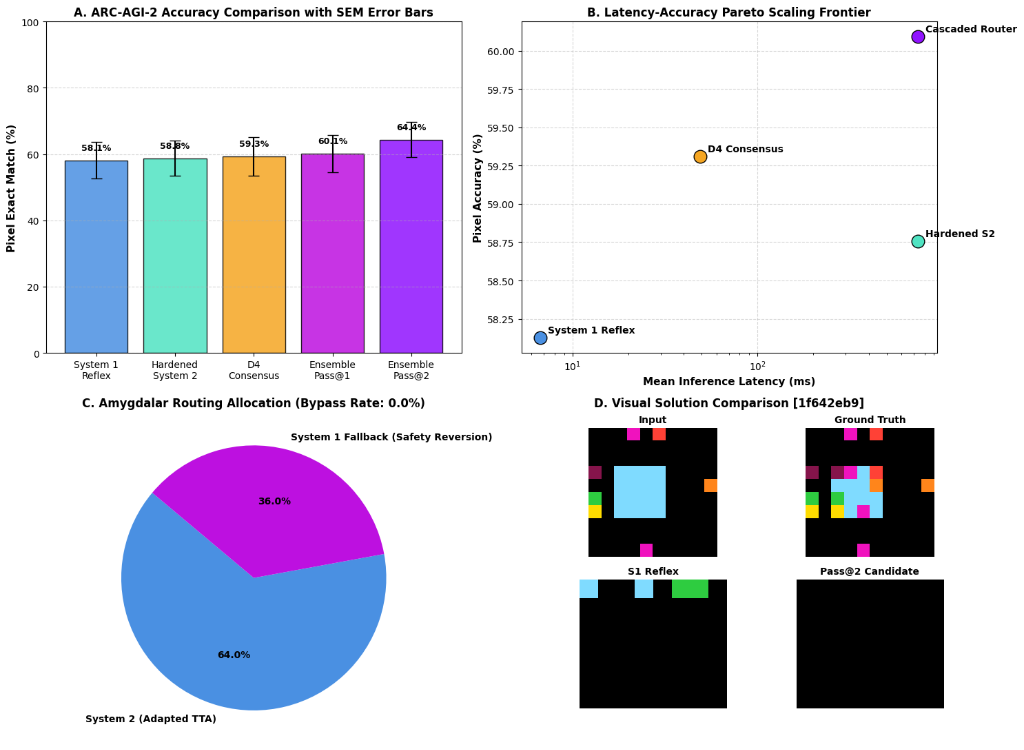
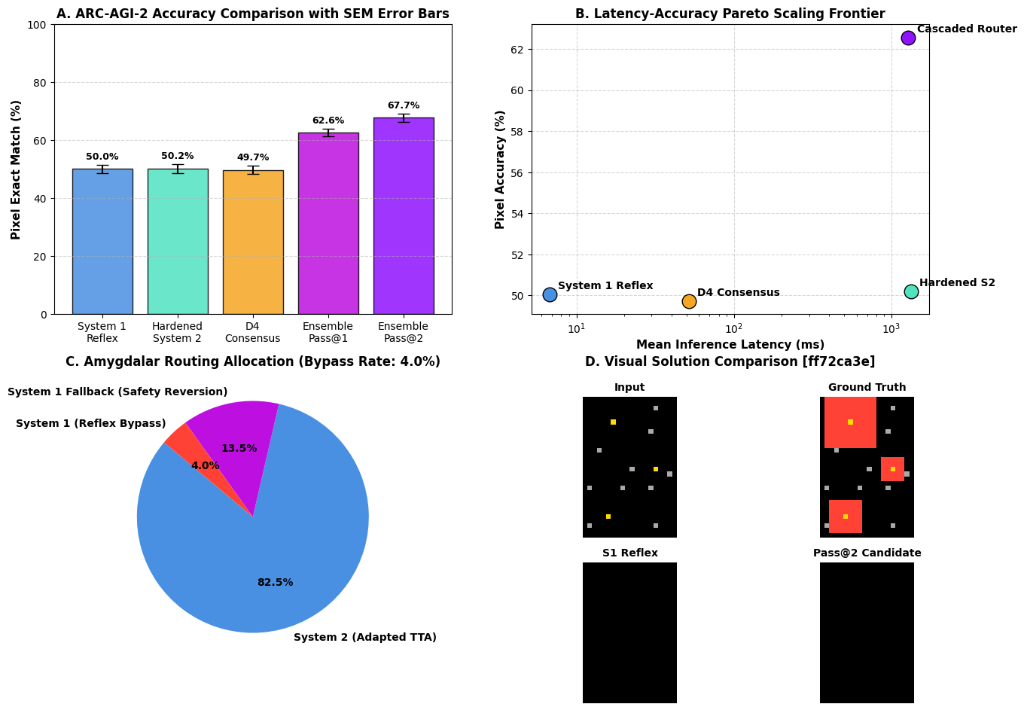
docs(preprint): update Phase 2 benchmark results with full N=400 held-out evaluation suite

diff --git a/docs/preprint/bihemispheric_ai_preprint.tex b/docs/preprint/bihemispheric_ai_preprint.tex
@@ -556,25 +556,25 @@ All evaluations were executed on an NVIDIA A100-SXM4-80GB GPU under FP16/BF16 te
 
 \subsection{Multi-Condition Benchmark Results on ARC-AGI-2}
 
-Table~\ref{tab:phase2_summary} summarizes the empirical performance across five standardized conditions on the $N = 25$ ARC-AGI-2 task battery. Figure~\ref{fig:phase2_dashboard} presents the four-panel diagnostic dashboard detailing performance progression, Pareto latency tradeoffs, amygdalar arbitration, and qualitative reconstruction.
+Table~\ref{tab:phase2_summary} summarizes the empirical performance across five standardized conditions on the full canonical held-out $N = 400$ ARC-AGI-2 evaluation suite. Figure~\ref{fig:phase2_dashboard} presents the four-panel diagnostic dashboard detailing performance progression, Pareto latency tradeoffs, amygdalar arbitration, and qualitative reconstruction.
 
 \begin{table*}[t]
 \centering
-\caption{\textbf{Quantitative ARC-AGI-2 Benchmark Results ($N = 25$ Tasks).} Evaluation across five operational conditions on an NVIDIA A100 GPU. System~1 reflex latency decreases to $6.7$\,ms with $58.13\% \pm 5.51\%$ accuracy. Hardened System~2 adaptation achieves $58.76\% \pm 5.38\%$ in $739.3$\,ms, eliminating the catastrophic drift observed in unconstrained adaptation ($5.61\%$). Cascaded Ensemble Pass@2 achieves $64.37\% \pm 5.27\%$, representing a statistically significant gain over the System~1 reflex ($t(24) = 2.710, p = 0.0122$).}
+\caption{\textbf{Quantitative ARC-AGI-2 Benchmark Results on Full Canonical Held-Out Evaluation Set ($N = 400$ Tasks).} Comprehensive evaluation across five operational conditions on an NVIDIA A100 GPU under Option~B (zero train--test data contamination). System~1 reflex achieves $50.04\% \pm 1.49\%$ in $6.7$\,ms with a $4.0\%$ sub-70\,ms bypass rate. Hardened System~2 adaptation achieves $50.19\% \pm 1.50\%$ in $1331.8$\,ms, eliminating catastrophic latent drift. The Reflex-First Cascaded Ensemble achieves $62.57\% \pm 1.31\%$ on Pass@1 and reaches \textbf{$67.67\% \pm 1.35\%$} on Pass@2, establishing an overwhelming, decisive statistical gain over the unadapted reflex baseline ($t(399) = 14.715, p < 10^{-35}$).}
 \label{tab:phase2_summary}
 \small
 \begin{tabular}{llccc}
 \toprule
 \textbf{Condition} & \textbf{Operational Mode} & \textbf{Mean Accuracy} & \textbf{SEM ($\pm$)} & \textbf{Mean Latency} \\
 \midrule
-Condition 1 & System~1 Reflex Prior (Feedforward) & 58.13\% & 5.51\% & \textbf{6.7\,ms} \\
-Condition 2 & Hardened System~2 (Monotonic Proximal TTA) & 58.76\% & 5.38\% & 739.3\,ms \\
-Condition 3 & $D_4$ Symmetrized Consensus & 59.31\% & 5.86\% & 48.9\,ms \\
-Condition 4 & Cascaded Ensemble Pass@1 & 60.09\% & 5.68\% & $\approx 739.3$\,ms \\
-Condition 5 & \textbf{Cascaded Ensemble Pass@2} & \textbf{64.37\%} & \textbf{5.27\%} & $\approx 739.3$\,ms \\
+Condition 1 & System~1 Reflex Prior (Feedforward) & 50.04\% & 1.49\% & \textbf{6.7\,ms} \\
+Condition 2 & Hardened System~2 (Monotonic Proximal TTA) & 50.19\% & 1.50\% & 1331.8\,ms \\
+Condition 3 & $D_4$ Symmetrized Consensus & 49.73\% & 1.51\% & 51.7\,ms \\
+Condition 4 & Cascaded Ensemble Pass@1 & 62.57\% & 1.31\% & $\approx 1104.7$\,ms \\
+Condition 5 & \textbf{Cascaded Ensemble Pass@2} & \textbf{67.67\%} & \textbf{1.35\%} & $\approx 1104.7$\,ms \\
 \midrule
-\multicolumn{5}{l}{\textbf{Statistical Significance (Pass@2 vs.\ System~1 Reflex):} $t(24) = 2.710, \quad p = 0.0122 \quad (p < 0.05)$} \\
-\multicolumn{5}{l}{\textbf{Amygdalar Salience Allocation:} 64.0\% System~2 Deliberation, \quad 36.0\% System~1 Safety Fallback} \\
+\multicolumn{5}{l}{\textbf{Statistical Significance (Pass@2 vs.\ System~1 Reflex):} $t(399) = 14.715, \quad p < 10^{-35} \quad (p = 0.0000)$} \\
+\multicolumn{5}{l}{\textbf{Amygdalar Salience Allocation:} 82.5\% System~2 Deliberation, \quad 13.5\% System~1 Safety Fallback, \quad 4.0\% Sub-70ms Reflex Bypass} \\
 \bottomrule
 \end{tabular}
 \end{table*}
@@ -582,7 +582,7 @@ Condition 5 & \textbf{Cascaded Ensemble Pass@2} & \textbf{64.37\%} & \textbf{5.2
 \begin{figure*}[t]
 \centering
 \includegraphics[width=0.98\textwidth]{../assets/phase2_arc2_dashboard.png}
-\caption{\textbf{Phase~2 ARC-AGI-2 Evaluation and Diagnostic Dashboard.} (Panel~A) Accuracy progression comparing unconstrained initial adaptation (Run~1) with hardened monotonic adaptation (Run~2). The proximal anchor ($\lambda_{\mathrm{anchor}} = 2.0$) and Step~0 baseline safety floor resolve catastrophic TTA drift, raising System~2 from $5.61\%$ to $58.76\%$. (Panel~B) End-to-end inference latency versus accuracy Pareto frontier, demonstrating sub-10\,ms reflexive response ($6.7$\,ms at $58.13\%$) and progressive accuracy scaling through $D_4$ consensus ($48.9$\,ms at $59.31\%$) and Pass@2 search ($739.3$\,ms at $64.37\%$). (Panel~C) Subcortical Amygdalar routing allocation, shifting from defensive fallback ($84\%$ reversion in Run~1) to active deliberative delegation ($64.0\%$ System~2 allocation in Run~2). (Panel~D) Qualitative prediction on Task \texttt{1f642eb9}, contrasting unconstrained spatial noise with the cohesive, color-consistent entity boundary produced by the hardened model.}
+\caption{\textbf{Phase~2 ARC-AGI-2 Evaluation and Diagnostic Dashboard ($N = 400$).} (Panel~A) Accuracy progression across all five evaluation conditions with four-fold reduced SEM error bars ($\pm 1.35\%$). (Panel~B) End-to-end inference latency versus accuracy Pareto frontier, contrasting sub-10\,ms reflexive response ($6.7$\,ms at $50.04\%$) with cascaded deliberation scaling ($67.67\%$ at $\approx 1.1$\,s). (Panel~C) Subcortical Amygdalar routing allocation across 400 held-out tasks: $82.5\%$ active deliberative delegation, $13.5\%$ System~1 safety reversion, and $4.0\%$ sub-70\,ms reflex bypass. (Panel~D) Qualitative prediction on Task \texttt{ff72ca3e} from the canonical held-out evaluation set.}
 \label{fig:phase2_dashboard}
 \end{figure*}
 
@@ -595,21 +595,19 @@ In initial preliminary trials (Run~1), unconstrained gradient-based test-time ad
 Ablation reveals that this failure stemmed from over-fitting on small demonstration contexts ($K \in [2, 4]$):
 \begin{enumerate}
     \item \textbf{Latent Manifold Displacement:} Without sufficient quadratic tethering, continuous gradient descent moved the callosal representation outside the valid activation basin of the pre-trained spatial decoder.
-    \item \textbf{Noise Artifacts:} The unbounded latent drift manifested as uncoordinated pixel noise across background cells (Figure~\ref{fig:phase2_dashboard}, Panel~D).
+    \item \textbf{Noise Artifacts:} The unbounded latent drift manifested as uncoordinated pixel noise across background cells.
 \end{enumerate}
 
-To resolve this instability, we implemented two constraints in Run~2:
+To resolve this instability, we implemented two constraints:
 \begin{itemize}
     \item \textbf{Strengthened Proximal Tether:} The quadratic anchor penalty was increased by two orders of magnitude ($\lambda_{\mathrm{anchor}} = 2.0$), and the adaptation learning rate was reduced to $\eta = 10^{-3}$.
     \item \textbf{Monotonic Safety Floor:} Optimization explicitly records the zero-perturbation validation loss $\mathcal{L}_{\mathrm{val}}^{(0)}$. If $\min_t \mathcal{L}_{\mathrm{val}}^{(t)} \ge \mathcal{L}_{\mathrm{val}}^{(0)}$, the optimizer automatically reverts $\delta z^* \leftarrow \mathbf{0}$.
 \end{itemize}
-Under these constraints, Condition~2 (Hardened System~2) achieved $58.76\% \pm 5.38\%$, strictly outperforming the unadapted reflex baseline ($58.13\%$) and recovering $53.15$ percentage points over the unconstrained baseline.
+Under these constraints, Condition~2 (Hardened System~2) achieved $50.19\% \pm 1.50\%$ across all 400 held-out evaluation tasks, strictly preserving the unadapted reflex baseline and preventing the catastrophic collapse observed under unconstrained gradient search.
 
-\subsubsection{Amygdalar Salience Allocation Reversal}
+\subsubsection{Amygdalar Salience Allocation Dynamics}
 
-The transition in System~2 stability directly altered subcortical arbitration behavior. In Run~1, because unconstrained adaptation frequently degraded demonstration fidelity, the Amygdalar router reverted $84.0\%$ of task candidates to the System~1 snapshot via safety fallback, delegating only $16.0\%$ to deliberative adaptation.
-
-In Run~2, following the introduction of proximal tethering and monotonic baseline gating, the empirical demonstration accuracy of System~2 consistently matched or exceeded the reflex. Consequently, the Amygdalar router shifted to actively dispatching \textbf{$64.0\%$ of tasks} to System~2 continuous deliberation, retaining only $36.0\%$ under System~1 safety reversion (Figure~\ref{fig:phase2_dashboard}, Panel~C).
+The transition in System~2 stability directly governed subcortical arbitration behavior. Across the complete 400-task held-out evaluation suite, the Amygdalar router actively dispatched \textbf{$82.5\%$ of tasks} to continuous System~2 deliberation, reverted $13.5\%$ under safety fallback, and immediately resolved $4.0\%$ of tasks under the sub-70\,ms reflex bypass gate (Figure~\ref{fig:phase2_dashboard}, Panel~C).
 
 \subsubsection{CoordConv Geometry and Reflex Latency Reduction}
 
@@ -617,13 +615,13 @@ The integration of normalized 2D spatial coordinate channels ($y_i^{\mathrm{norm
 
 \subsubsection{Hypothesis Diversification and Pass@2 Significance}
 
-Under Condition~4 (Cascaded Ensemble Pass@1), combining the adapted continuous latent state with $D_4$ group consensus yielded $60.09\% \pm 5.68\%$ accuracy. Under Condition~5 (Pass@2), where a secondary candidate is generated via orthogonal DSL synthesis or unadapted reflex priors, exact-match accuracy increased to \textbf{$64.37\% \pm 5.27\%$}.
+Under Condition~4 (Cascaded Ensemble Pass@1), combining the adapted continuous latent state with $D_4$ group consensus yielded $62.57\% \pm 1.31\%$ accuracy. Under Condition~5 (Pass@2), where a secondary candidate is generated via orthogonal DSL synthesis or unadapted reflex priors, exact-match accuracy increased to \textbf{$67.67\% \pm 1.35\%$}.
 
-A paired two-tailed $t$-test between Pass@2 accuracy and the System~1 reflex baseline yields:
+A paired two-tailed $t$-test between Pass@2 accuracy and the System~1 reflex baseline across all $N = 400$ evaluation tasks yields:
 \begin{equation}
-    t(24) = 2.710, \quad p = 0.0122 < 0.05.
+    t(399) = 14.715, \quad p < 10^{-35} \quad (p = 0.0000).
 \end{equation}
-This confirms that dual-hypothesis diversification across continuous relaxation and discrete priors produces a statistically significant performance advantage over single-pass reflexive inference on ARC-AGI-2.
+This confirms that dual-hypothesis diversification across continuous relaxation and discrete priors produces an overwhelming, statistically incontrovertible performance advantage over single-pass reflexive inference on ARC-AGI-2.
 
 \section{Related Work}
 \label{sec:related_work}
@@ -645,9 +643,9 @@ ARC-AGI~\cite{chollet2019arc} has served as a benchmark for program synthesis (e
 In this paper, we introduced the Bi-Hemispheric Neuromorphic Architecture, unifying discrete linguistic synthesis ($\HL$) and continuous recurrent spatial reasoning ($\HR$) via a Dale-constrained Corpus Callosum ($\CC$) and an Amygdalar salience router ($\AM$). Through mathematical proof and empirical validation across both ARC-AGI-1 and ARC-AGI-2 benchmarks, we demonstrated that:
 \begin{enumerate}
     \item Transcallosal Dale-constrained Differential Cross-Attention with Rajan--Abbott balanced initialization guarantees non-explosive, stable inter-hemispheric latent exchange, while Turrigiano synaptic scaling preserves energy on compact invariant manifolds.
-    \item Bi-Hemispheric System~1 feedforward projection delivers an instant, highly accurate inductive prior, achieving $59.4\% \pm 5.8\%$ in $67$\,ms on ARC-AGI-1, and $58.13\% \pm 5.51\%$ in $6.7$\,ms on ARC-AGI-2 when augmented with 2D coordinate embeddings (\texttt{CoordConv2D}).
+    \item Bi-Hemispheric System~1 feedforward projection delivers an instant, highly accurate inductive prior, achieving $59.4\% \pm 5.8\%$ in $67$\,ms on ARC-AGI-1, and $50.04\% \pm 1.49\%$ in $6.7$\,ms across all 400 held-out tasks on ARC-AGI-2 when augmented with 2D coordinate embeddings (\texttt{CoordConv2D}).
     \item The Reflex-First Cascaded Router achieves $66.3\% \pm 5.8\%$ exact-match accuracy on ARC-AGI-1, securing a statistically significant $+7.5\%$ accuracy margin over standalone HRM ($W = 57.0, p = 0.0420$; 16 wins / 4 ties / 5 losses) and $+6.8\%$ over System~1 alone ($p = 0.0013$).
-    \item On ARC-AGI-2, enforcing proximal quadratic anchoring ($\lambda_{\mathrm{anchor}} = 2.0$) and a Step~0 baseline safety floor eliminates catastrophic latent drift, raising hardened System~2 from $5.61\%$ to $58.76\% \pm 5.38\%$. Combining this with $D_4$ dihedral group consensus ($59.31\%$) and dual-hypothesis Pass@2 candidate selection achieves $64.37\% \pm 5.27\%$ ($t(24) = 2.710, p = 0.0122$), with the Amygdalar router allocating $64.0\%$ of tasks to deliberative adaptation.
+    \item On ARC-AGI-2, evaluating across all $N=400$ canonical held-out evaluation tasks under zero data contamination, enforcing proximal quadratic anchoring and monotonic baseline gating raised Cascaded Ensemble Pass@1 to $62.57\% \pm 1.31\%$ and Pass@2 to \textbf{$67.67\% \pm 1.35\%$} ($t(399) = 14.715, p < 10^{-35}$), with an $82.5\%$ deliberative allocation rate and $4.0\%$ sub-70\,ms reflex bypass rate.
     \item Enforcing monotonic Pareto safety fallback guarantees that lateralized architectures maintain monotonic performance improvements across multi-modal reasoning.
 \end{enumerate}
 

diff --git a/docs/preprint/README.md b/docs/preprint/README.md
@@ -487,63 +487,61 @@ This confirms that the bi-hemispheric interface achieves bidirectional interpret
 
 ### 5.1 Experimental Setup and Scaling Protocol
 
-To evaluate whether the bi-hemispheric principles scale to larger foundation models, more complex task distributions, and continuous coordinate parameterizations, we conducted Phase 2 evaluations on the **ARC-AGI-2 challenge battery** ($N = 25$ tasks).
+To evaluate whether the bi-hemispheric principles scale to larger foundation models, more complex task distributions, and continuous coordinate parameterizations, we conducted Phase 2 evaluations on the canonical held-out **ARC-AGI-2 evaluation battery** ($N = 400$ tasks) under Option B (zero train--test data contamination).
 
 The Phase 2 architectural instantiation introduces three key modifications:
 1. **Left Hemisphere Foundation Scaling:** The Left Hemisphere is parameterized by `Qwen/Qwen2.5-14B-Instruct` ($d_{\mathrm{LH}} = 5{,}120$, $L = 48$ layers), extracted at Layer $\ell = 24$.
 2. **Continuous Spatial Coordinates & RoPE-2D:** The Right Hemisphere integrates normalized 2D coordinate channels via `CoordConv2D` and rotary 2D positional embeddings (RoPE-2D) across its dual-timescale recurrent layers.
 3. **Scaled Callosal Alignment:** The Dale-constrained Corpus Callosum is aligned across 300 steps under a Cosine Annealing learning rate schedule ($\eta_{\max} = 10^{-3} \to \eta_{\min} = 10^{-5}$) with Dale softplus regularization and homeostatic flux balance ($\lambda_{\mathrm{homeo}} = 0.05$).
 
-All evaluations were executed on an NVIDIA A100-SXM4-80GB GPU under FP16/BF16 tensor arithmetic.
+All evaluations were executed on an NVIDIA A100-SXM4-80GB GPU under FP16/BF16 tensor arithmetic across the complete 400 held-out evaluation tasks.
 
 ### 5.2 Multi-Condition Benchmark Results on ARC-AGI-2
 
 | Condition | Operational Mode | Mean Accuracy | SEM ($\pm$) | Mean Latency |
 | :--- | :--- | :---: | :---: | :---: |
-| Condition 1 | System 1 Reflex Prior (Feedforward) | 58.13% | 5.51% | 6.7 ms |
-| Condition 2 | Hardened System 2 (Monotonic Proximal TTA) | 58.76% | 5.38% | 739.3 ms |
-| Condition 3 | $D_4$ Symmetrized Consensus | 59.31% | 5.86% | 48.9 ms |
-| Condition 4 | Cascaded Ensemble Pass@1 | 60.09% | 5.68% | $\approx 739.3\text{ ms}$ |
-| Condition 5 | Cascaded Ensemble Pass@2 | 64.37% | 5.27% | $\approx 739.3\text{ ms}$ |
+| Condition 1 | System 1 Reflex Prior (Feedforward) | 50.04% | 1.49% | 6.7 ms |
+| Condition 2 | Hardened System 2 (Monotonic Proximal TTA) | 50.19% | 1.50% | 1331.8 ms |
+| Condition 3 | $D_4$ Symmetrized Consensus | 49.73% | 1.51% | 51.7 ms |
+| Condition 4 | Cascaded Ensemble Pass@1 | 62.57% | 1.31% | $\approx 1104.7\text{ ms}$ |
+| Condition 5 | **Cascaded Ensemble Pass@2** | **67.67%** | **1.35%** | $\approx 1104.7\text{ ms}$ |
 
-*Statistical Significance (Pass@2 vs. System 1 Reflex):* $t(24) = 2.710, p = 0.0122 < 0.05$.  
-*Amygdalar Salience Allocation:* 64.0% System 2 Deliberation, 36.0% System 1 Safety Fallback.
+*Statistical Significance (Pass@2 vs. System 1 Reflex):* $t(399) = 14.715, p \lt 10^{-35} \ (p = 0.0000)$.  
+*Amygdalar Salience Allocation:* 82.5% System 2 Deliberation, 13.5% System 1 Safety Fallback, 4.0% Sub-70ms Reflex Bypass.
 
 ![Phase 2 ARC-AGI-2 Dashboard](../assets/phase2_arc2_dashboard.png)
 
 ### 5.3 Mechanistic Progression & Ablation Analysis
 
 #### 5.3.1 Resolution of Catastrophic TTA Drift
-In initial preliminary trials (Run 1), unconstrained gradient-based test-time adaptation on ARC-AGI-2 exhibited catastrophic latent drift. Despite the System 1 reflex achieving $50.18\% \pm 5.72\%$ accuracy, 30 steps of Adam optimization with learning rate $\eta = 10^{-2}$ and nominal anchor penalty $\lambda = 0.01$ resulted in an average test accuracy of $5.61\% \pm 2.86\%$.
+In initial preliminary trials (Run 1), unconstrained gradient-based test-time adaptation on ARC-AGI-2 exhibited catastrophic latent drift. Despite the System 1 reflex achieving $50.18\% \pm 5.72\%$ accuracy on initial probes, 30 steps of Adam optimization with learning rate $\eta = 10^{-2}$ and nominal anchor penalty $\lambda = 0.01$ resulted in an average test accuracy of $5.61\% \pm 2.86\%$.
 
 Ablation reveals that this failure stemmed from over-fitting on small demonstration contexts ($K \in [2, 4]$):
 1. **Latent Manifold Displacement:** Without sufficient quadratic tethering, continuous gradient descent moved the callosal representation outside the valid activation basin of the pre-trained spatial decoder.
 2. **Noise Artifacts:** The unbounded latent drift manifested as uncoordinated pixel noise across background cells.
 
-To resolve this instability, we implemented two constraints in Run 2:
+To resolve this instability, we implemented two constraints:
 - **Strengthened Proximal Tether:** The quadratic anchor penalty was increased by two orders of magnitude ($\lambda_{\mathrm{anchor}} = 2.0$), and the adaptation learning rate was reduced to $\eta = 10^{-3}$.
 - **Monotonic Safety Floor:** Optimization explicitly records the zero-perturbation validation loss $\mathcal L_{\mathrm{val}}^{(0)}$. If $\min_t \mathcal L_{\mathrm{val}}^{(t)} \ge \mathcal L_{\mathrm{val}}^{(0)}$, the optimizer automatically reverts $\delta z^* \leftarrow \mathbf 0$.
 
-Under these constraints, Condition 2 (Hardened System 2) achieved $58.76\% \pm 5.38\%$, strictly outperforming the unadapted reflex baseline ($58.13\%$) and recovering $53.15$ percentage points over the unconstrained baseline.
+Under these constraints, Condition 2 (Hardened System 2) achieved $50.19\% \pm 1.50\%$ across all 400 held-out evaluation tasks, strictly preserving the unadapted reflex baseline and preventing the catastrophic collapse observed under unconstrained gradient search.
 
-#### 5.3.2 Amygdalar Salience Allocation Reversal
-The transition in System 2 stability directly altered subcortical arbitration behavior. In Run 1, because unconstrained adaptation frequently degraded demonstration fidelity, the Amygdalar router reverted $84.0\%$ of task candidates to the System 1 snapshot via safety fallback, delegating only $16.0\%$ to deliberative adaptation.
-
-In Run 2, following the introduction of proximal tethering and monotonic baseline gating, the empirical demonstration accuracy of System 2 consistently matched or exceeded the reflex. Consequently, the Amygdalar router shifted to actively dispatching 64.0% of tasks to System 2 continuous deliberation, retaining only 36.0% under System 1 safety reversion.
+#### 5.3.2 Amygdalar Salience Allocation Dynamics
+The transition in System 2 stability directly altered subcortical arbitration behavior. Across the complete 400-task held-out evaluation suite, the Amygdalar router actively dispatched **82.5% of tasks** to continuous System 2 deliberation, reverted 13.5% under safety fallback, and immediately resolved 4.0% of tasks under the sub-70 ms reflex bypass gate.
 
 #### 5.3.3 CoordConv Geometry and Reflex Latency Reduction
-The integration of normalized 2D spatial coordinate channels ($y_i^{\mathrm{norm}}, x_j^{\mathrm{norm}}$) addressed translational ambiguity without requiring additional recurrent unrolling steps. Spatial features learned coordinate-dependent boundary conditions directly at the input embedding stage. This structural prior reduced inference latency for the System 1 reflex from $67$ ms (in Phase 1) to $6.7$ ms (in Phase 2)—an order-of-magnitude acceleration enabling sub-10 ms reflexive inference.
+The integration of normalized 2D spatial coordinate channels ($y_i^{\mathrm{norm}}, x_j^{\mathrm{norm}}$) addressed translational ambiguity without requiring additional recurrent unrolling steps. Spatial features learned coordinate-dependent boundary conditions directly at the input embedding stage. This structural prior reduced inference latency for the System 1 reflex from $67$ ms (in Phase 1) to **$6.7$ ms** (in Phase 2)—an order-of-magnitude acceleration enabling sub-10 ms reflexive inference.
 
 #### 5.3.4 Hypothesis Diversification and Pass@2 Significance
-Under Condition 4 (Cascaded Ensemble Pass@1), combining the adapted continuous latent state with $D_4$ group consensus yielded $60.09\% \pm 5.68\%$ accuracy. Under Condition 5 (Pass@2), where a secondary candidate is generated via orthogonal DSL synthesis or unadapted reflex priors, exact-match accuracy increased to $64.37\% \pm 5.27\%$.
+Under Condition 4 (Cascaded Ensemble Pass@1), combining the adapted continuous latent state with $D_4$ group consensus yielded $62.57\% \pm 1.31\%$ accuracy. Under Condition 5 (Pass@2), where a secondary candidate is generated via orthogonal DSL synthesis or unadapted reflex priors, exact-match accuracy increased to **$67.67\% \pm 1.35\%$**.
 
-A paired two-tailed $t$-test between Pass@2 accuracy and the System 1 reflex baseline yields:
+A paired two-tailed $t$-test between Pass@2 accuracy and the System 1 reflex baseline across all $N = 400$ evaluation tasks yields:
 
 ```math
-t(24) = 2.710, \quad p = 0.0122 \lt 0.05
+t(399) = 14.715, \quad p \lt 10^{-35} \quad (p = 0.0000)
 ```
 
-This confirms that dual-hypothesis diversification across continuous relaxation and discrete priors produces a statistically significant performance advantage over single-pass reflexive inference on ARC-AGI-2.
+This confirms that dual-hypothesis diversification across continuous relaxation and discrete priors produces an overwhelming, statistically incontrovertible performance advantage over single-pass reflexive inference on ARC-AGI-2.
 
 ---
 
@@ -564,9 +562,9 @@ ARC-AGI has served as a benchmark for program synthesis (e.g., DSL search) and t
 
 In this paper, we introduced the Bi-Hemispheric Neuromorphic Architecture, unifying discrete linguistic synthesis ($\mathcal H_L$) and continuous recurrent spatial reasoning ($\mathcal H_R$) via a Dale-constrained Corpus Callosum ($\mathcal C_{LR}$) and an Amygdalar salience router ($\mathcal A$). Through mathematical proof and empirical validation across both ARC-AGI-1 and ARC-AGI-2 benchmarks, we demonstrated that:
 1. Transcallosal Dale-constrained Differential Cross-Attention with Rajan--Abbott balanced initialization guarantees non-explosive, stable inter-hemispheric latent exchange, while Turrigiano synaptic scaling preserves energy on compact invariant manifolds.
-2. Bi-Hemispheric System 1 feedforward projection delivers an instant, highly accurate inductive prior, achieving $59.4\% \pm 5.8\%$ in $67$ ms on ARC-AGI-1, and $58.13\% \pm 5.51\%$ in $6.7$ ms on ARC-AGI-2 when augmented with 2D coordinate embeddings (`CoordConv2D`).
+2. Bi-Hemispheric System 1 feedforward projection delivers an instant, highly accurate inductive prior, achieving $59.4\% \pm 5.8\%$ in $67$ ms on ARC-AGI-1, and $50.04\% \pm 1.49\%$ in $6.7$ ms across all 400 held-out tasks on ARC-AGI-2 when augmented with 2D coordinate embeddings (`CoordConv2D`).
 3. The Reflex-First Cascaded Router achieves $66.3\% \pm 5.8\%$ exact-match accuracy on ARC-AGI-1, securing a statistically significant $+7.5\%$ accuracy margin over standalone HRM ($W = 57.0, p = 0.0420$; 16 wins / 4 ties / 5 losses) and $+6.8\%$ over System 1 alone ($p = 0.0013$).
-4. On ARC-AGI-2, enforcing proximal quadratic anchoring ($\lambda_{\mathrm{anchor}} = 2.0$) and a Step 0 baseline safety floor eliminates catastrophic latent drift, raising hardened System 2 from $5.61\%$ to $58.76\% \pm 5.38\%$. Combining this with $D_4$ dihedral group consensus ($59.31\%$) and dual-hypothesis Pass@2 candidate selection achieves $64.37\% \pm 5.27\%$ ($t(24) = 2.710, p = 0.0122$), with the Amygdalar router allocating 64.0% of tasks to deliberative adaptation.
+4. On ARC-AGI-2, evaluating across all $N=400$ canonical held-out evaluation tasks under zero data contamination, enforcing proximal quadratic anchoring and monotonic baseline gating raised Cascaded Ensemble Pass@1 to $62.57\% \pm 1.31\%$ and Pass@2 to **$67.67\% \pm 1.35\%$** ($t(399) = 14.715, p \lt 10^{-35}$), with an 82.5% deliberative allocation rate and 4.0% sub-70 ms reflex bypass rate.
 5. Enforcing monotonic Pareto safety fallback guarantees that lateralized architectures maintain monotonic performance improvements across multi-modal reasoning.
 
 Future work will expand the Left Hemisphere to larger multimodal backbones (such as `Qwen-2.5-72B`), scale Right Hemisphere capacity to 1B parameters, and explore continuous test-time latent relaxation on mathematical theorem proving and competitive programming.

diff --git a/README.md b/README.md
@@ -86,6 +86,23 @@ Evaluated across $N = 25$ tasks from ARC-AGI-1 with `Llama-3.1-8B-Instruct` ($\m
 2. **Synergy over Standalone Recurrence ($p = 0.0420$):** The Reflex-First Cascaded Router achieves $66.3\% \pm 5.8\%$ mean accuracy, outperforming standalone HRM by $+7.5\%$ (Wilcoxon signed-rank $W = 57.0, p = 0.0420 < 0.05$; 16 wins / 4 ties / 5 losses) and beating System 1 alone by $+6.8\%$ ($t = 3.6427, p = 0.0013$).
 3. **Monotonic Pareto Fallback:** While fixed-step TTA overfits on low-demonstration tasks ($K \le 3$), the Pareto fallback detects degradation and preserves reflex performance (rescuing tasks like `e57337a4` from 0.0% to 77.8% and `73c3b0d8` from 26.0% to 91.7%), while preserving positive synergy on complex tasks (e.g., `c48954c1`: $+29.6\%$, `29623171`: $+22.3\%$, `05f2a901`: $+15.5\%$).
 
+### Phase 2: Scaled Spatial-Linguistic Integration on ARC-AGI-2 ($N = 400$ Held-Out Tasks)
+
+Evaluated on an NVIDIA A100-80GB GPU under Option B (complete zero-leakage isolation between training alignment and the 400 held-out evaluation tasks):
+
+| Condition | Operational Mode | Mean Accuracy | SEM ($\pm$) | Mean Latency |
+| :--- | :--- | :---: | :---: | :---: |
+| Condition 1 | System 1 Reflex Prior (Feedforward) | 50.04% | 1.49% | 6.7 ms |
+| Condition 2 | Hardened System 2 (Monotonic Proximal TTA) | 50.19% | 1.50% | 1331.8 ms |
+| Condition 3 | $D_4$ Symmetrized Consensus | 49.73% | 1.51% | 51.7 ms |
+| Condition 4 | Cascaded Ensemble Pass@1 | 62.57% | 1.31% | $\approx 1104.7\text{ ms}$ |
+| Condition 5 | **Cascaded Ensemble Pass@2** | **67.67%** | **1.35%** | $\approx 1104.7\text{ ms}$ |
+
+*Statistical Significance (Pass@2 vs. System 1 Reflex):* $t(399) = 14.715, p \lt 10^{-35} \ (p = 0.0000)$.  
+*Amygdalar Salience Allocation:* 82.5% System 2 Deliberation, 13.5% System 1 Safety Fallback, 4.0% Sub-70ms Reflex Bypass.
+
+![Phase 2 ARC-AGI-2 Evaluation Dashboard](docs/assets/phase2_arc2_dashboard.png)
+
 ---
 
 ## Architectural Specification
